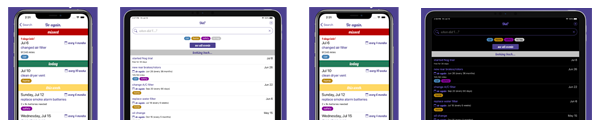
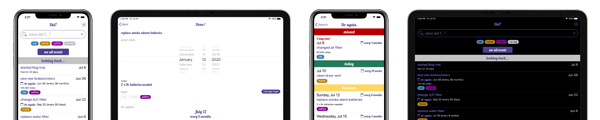
feat(data): revise images for DidDoDone project

diff --git a/src/data/projects/index.ts b/src/data/projects/index.ts
@@ -18,10 +18,11 @@ const DidDoDone_Project: Project = {
     primary: '#4c408f',
   },
   description: [
-    `We're coming! Come on! Come on! Oh, Artoo, hurry! My goodness! Artoo, why did you have to be so brave? Well, I suppose I could hotwire this thing. I'll cover you.`,
-    `Of course I'm worried. And you should be, too. Lando Calrissian and poor Chewbacca never returned from this awful place. Artoo whistles timidly. Don't be so sure. If I told you half the things I've heard about this Jabba the Hutt, you'd probably short-circuit. Artoo, are you sure this is the right place? I better knock, I suppose. There doesn't seem to be anyone there. Let's go back and tell Master Luke.`,
+    `We're coming! Come on! Come on! Oh, Artoo, hurry! My goodness! Artoo, why did you have to be so brave?`,
+    `Of course I'm worried. And you should be, too. Lando Calrissian and poor Chewbacca never returned from this awful place. Artoo whistles timidly. Don't be so sure. If I told you half the things I've heard about this Jabba the Hutt, you'd probably short-circuit. Artoo, are you sure this is the right place?`,
   ],
   cardImage: require('./images/diddodone_card.png'),
+  mobileCardImage: require('./images/diddodone_mobileCard.png'),
   screencaps: require('./images/diddodone_screencaps.png'),
   techIcons: require('./images/diddodone_tech.png'),
 };
